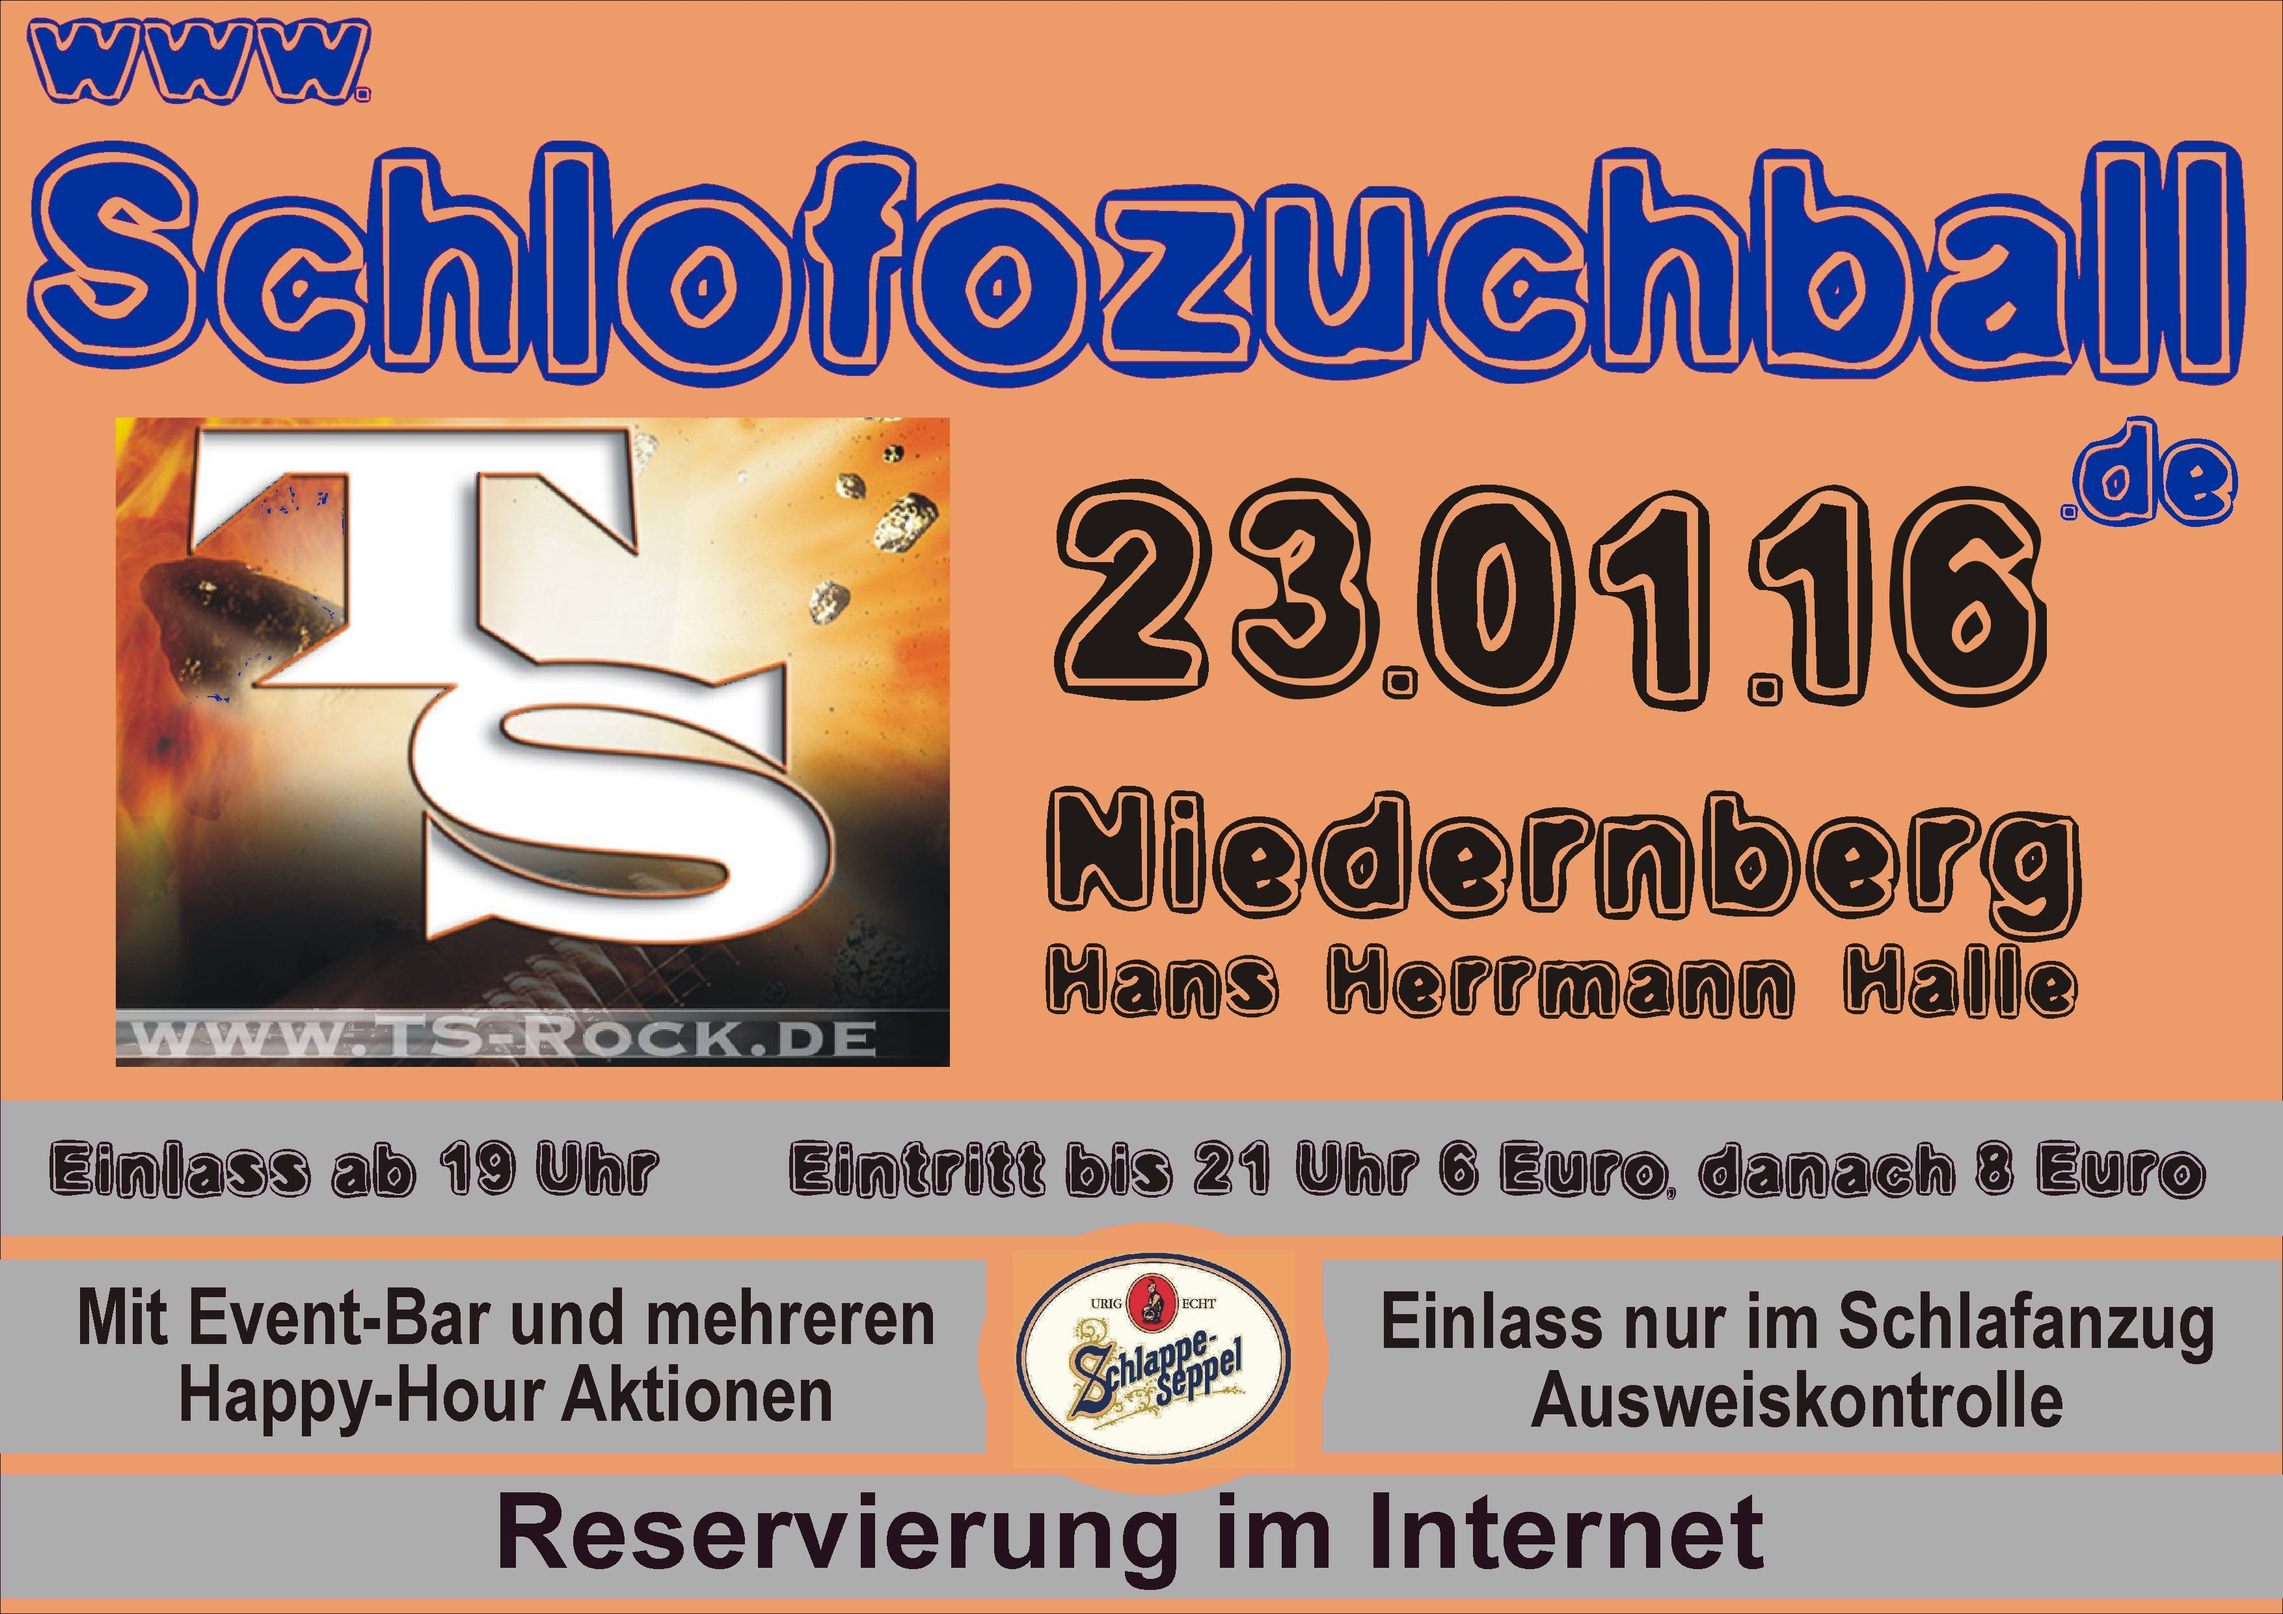
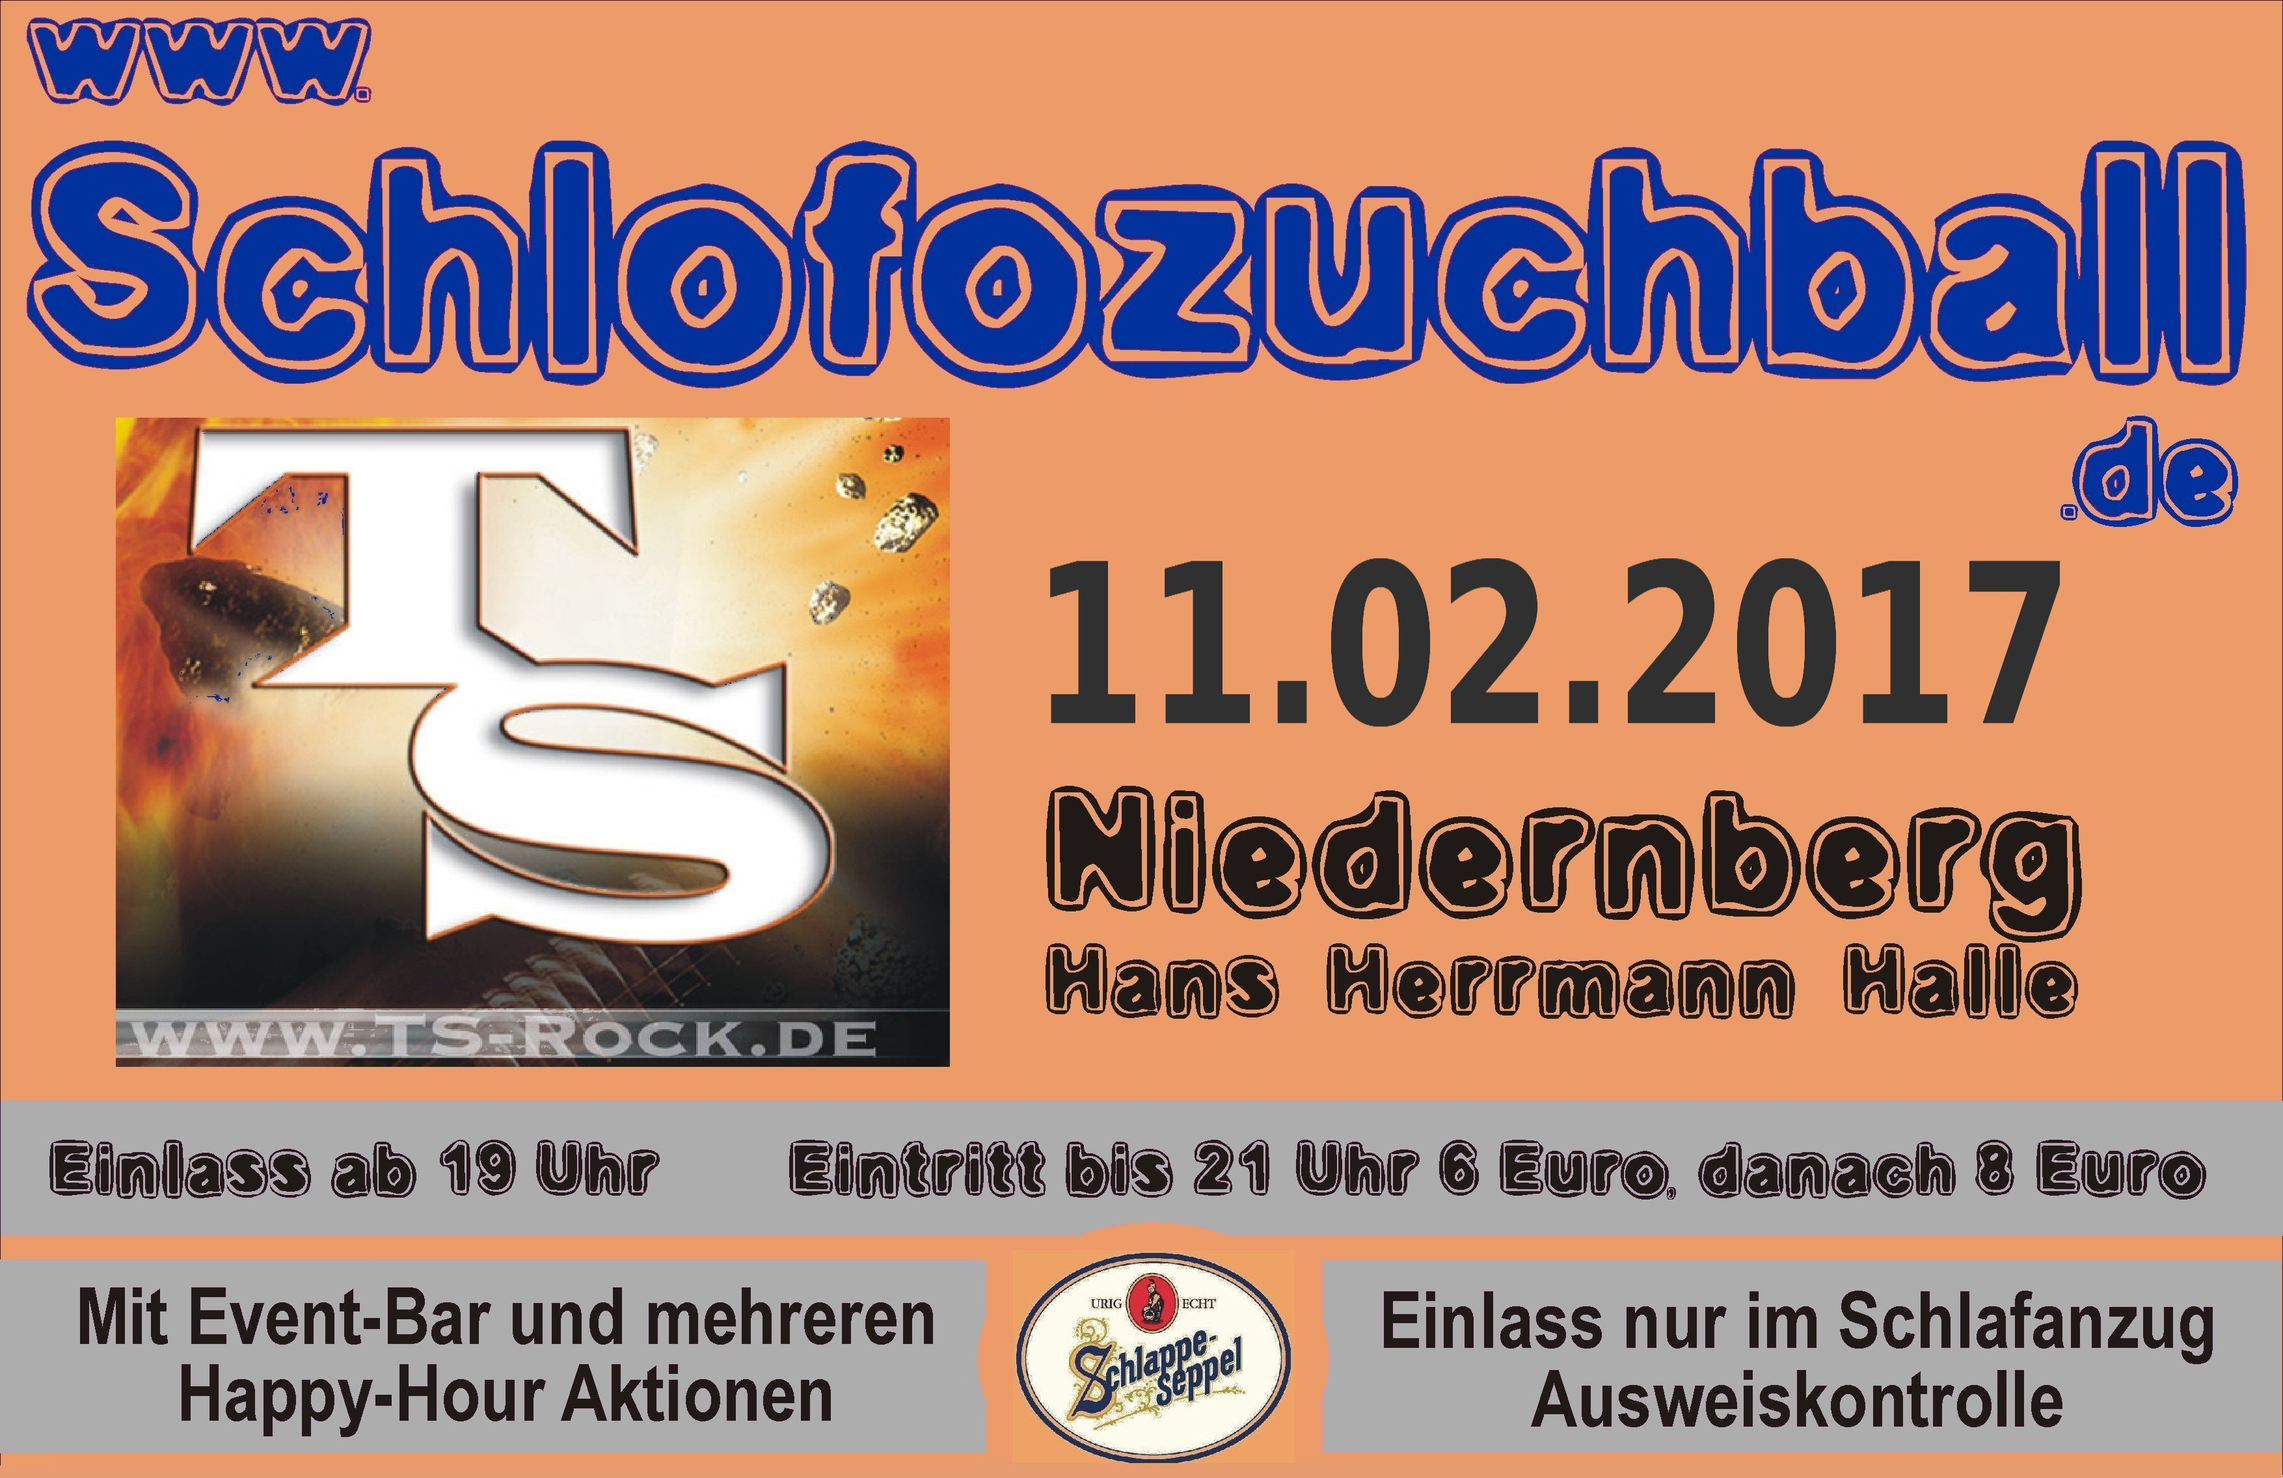
bump Schlofozuchball 2017

diff --git a/template/headerMenu.php b/template/headerMenu.php
@@ -1,54 +1,54 @@
 <!doctype html>
 <html>
 
-	<head>
-		<title>Schlofozuchball 2016</title>
-		<link rel="stylesheet" type="text/css" href="css/default.css" />
+  <head>
+    <title>Schlofozuchball 2017</title>
+    <link rel="stylesheet" type="text/css" href="css/default.css" />
 
-		<meta charset="utf-8" />
-		<meta name="content-language" content="de" />
-		<meta name="author"           content="Johannes Lauinger" />
-		<meta name="publisher"        content="Musikcorps Niedernberg" />
-		<meta name="copyright"        content="Musikcorps Niedernberg" />
-		<meta name="keywords"         content="Musikcorps Niedernberg Schlofozuchball Schlafanzug Disco Hans Herrmann Halle" />
-		<meta name="description"      content="Die offizielle Webseite zum Niedernberger Schlofozuchball mit aktuellen Informationen." />
-		<meta name="language"         content="Deutsch" />
-		<meta name="robots"           content="INDEX,FOLLOW" />
-	</head>
+    <meta charset="utf-8" />
+    <meta name="content-language" content="de" />
+    <meta name="author"           content="Johannes Lauinger" />
+    <meta name="publisher"        content="Musikcorps Niedernberg" />
+    <meta name="copyright"        content="Musikcorps Niedernberg" />
+    <meta name="keywords"         content="Musikcorps Niedernberg Schlofozuchball Schlafanzug Disco Hans Herrmann Halle" />
+    <meta name="description"      content="Die offizielle Webseite zum Niedernberger Schlofozuchball mit aktuellen Informationen." />
+    <meta name="language"         content="Deutsch" />
+    <meta name="robots"           content="INDEX,FOLLOW" />
+  </head>
 
-	<body>
+  <body>
 
-		<script type="text/javascript">
-			var gaJsHost = (("https:" == document.location.protocol) ? "https://ssl." : "http://www.");
-			document.write(unescape("%3Cscript src='" + gaJsHost + "google-analytics.com/ga.js' type='text/javascript'%3E%3C/script%3E"));
-		</script>
-		<script type="text/javascript">
-			var pageTracker = _gat._getTracker("UA-2897477-2");
-			pageTracker._initData();
-			pageTracker._trackPageview();
-		</script>
+    <script type="text/javascript">
+      var gaJsHost = (("https:" == document.location.protocol) ? "https://ssl." : "http://www.");
+      document.write(unescape("%3Cscript src='" + gaJsHost + "google-analytics.com/ga.js' type='text/javascript'%3E%3C/script%3E"));
+    </script>
+    <script type="text/javascript">
+      var pageTracker = _gat._getTracker("UA-2897477-2");
+      pageTracker._initData();
+      pageTracker._trackPageview();
+    </script>
 
-		<table cellspacing="0" id="mainLayout">
+    <table cellspacing="0" id="mainLayout">
 
-		<!-- Header -->
-			<tr><td colspan="2" id="header">
-				<a href="index.php"><img src="bilder/logo.gif" border="0" alt="Logo Schlofozuchball" /></a>
-			</td></tr>
-			<tr><td colspan="2" id="separator"></td></tr>
-		<!-- Ende Header -->
+    <!-- Header -->
+      <tr><td colspan="2" id="header">
+        <a href="index.php"><img src="bilder/logo.gif" border="0" alt="Logo Schlofozuchball" /></a>
+      </td></tr>
+      <tr><td colspan="2" id="separator"></td></tr>
+    <!-- Ende Header -->
 
-		<!-- Menü -->
-			<tr><td id="menu">
-				<b>Navigation:</b><br />
-				<table id="menu">
-					<tr><td><a href="index.php">Auf einen Blick</a></td></tr>
-					<tr><td><a href="infos.php">Infos</a></td></tr>
-					<tr><td><a href="weg.php">Wegbeschreibung</a></td></tr>
+    <!-- Menü -->
+      <tr><td id="menu">
+        <b>Navigation:</b><br />
+        <table id="menu">
+          <tr><td><a href="index.php">Auf einen Blick</a></td></tr>
+          <tr><td><a href="infos.php">Infos</a></td></tr>
+          <tr><td><a href="weg.php">Wegbeschreibung</a></td></tr>
           <tr><td><a href="werbung.php">Werbebanner</a></td></tr>
-					<tr><td><a href="fundgrube.php">Fundgrube</a></td></tr>
-					<tr><td><a href="impressum.php">Impressum</a></td></tr>
-				</table>
-			</td>
-		<!-- Ende Menü -->
+          <tr><td><a href="fundgrube.php">Fundgrube</a></td></tr>
+          <tr><td><a href="impressum.php">Impressum</a></td></tr>
+        </table>
+      </td>
+    <!-- Ende Menü -->
 
-		<td id="main">
+    <td id="main">

diff --git a/index.php b/index.php
@@ -3,9 +3,9 @@
 include "template/headerMenu.php";
 ?>
 
-<!--<img src="bilder/banner.png" width="100%" alt="Schlofozuchball 2016" /><br /><br />-->
+<!--<img src="bilder/banner.png" width="100%" alt="Schlofozuchball 2017" /><br /><br />-->
 
-<h1>Schlofozuchball 2016</h1>
+<h1>Schlofozuchball 2017</h1>
 <br />
 
 <span class="big"><b>Herzlich Willkommen</b> auf der offiziellen Webseite zum Niedernberger Schlofozuchball!</span>
@@ -33,9 +33,9 @@ Das Mindestalter ist 16 Jahre!
 </td><td class="separatorRight"></td><td>
 
 <span id="termin">
-<h2>Termin 2016</h2><br />
+<h2>Termin 2017</h2><br />
 <table border="0" cellspacing="0" cellpadding="5">
-<tr><td><b>Wann:</b></td><td>Samstag, der 23. Januar 2016, 20:00 Uhr<br /><i>(Einlass ab 19 Uhr)</i></td></tr>
+<tr><td><b>Wann:</b></td><td>Samstag, der 11. Februar 2017, 20:00 Uhr<br /><i>(Einlass ab 19 Uhr)</i></td></tr>
 <tr><td><b>Wo:</b></td><td>Hans Herrmann Halle, Niedernberg (siehe <a href="weg.php">Wegbeschreibung</a>)</td></tr>
 <tr><td><b>Einlass ab:</b></td><td>16 Jahren. Ausweiskontrolle!</td></tr>
 <tr><td><b>Motto:</b></td><td>Jeder kommt im Schlafanzug!</td></tr>
@@ -43,7 +43,7 @@ Das Mindestalter ist 16 Jahre!
 </span>
 
 <!--<span id="schlofozuchball-vorbei-hinweis">
-<span class="big"><b>Vielen Dank für einen gelungenen Schlofozuchball 2016!</b></span><br /><br />
+<span class="big"><b>Vielen Dank für einen gelungenen Schlofozuchball 2017!</b></span><br /><br />
 Wir hoffen, dass es Dir gefallen hat und dass Du nächstes jahr wieder kommst.<br /><br />
 <span class="big">Falls Du etwas verloren hast, kannst Du unsere <a href="fundgrube.php">Fundgrube</a> besuchen.</span>
 </span>-->
@@ -67,7 +67,7 @@ Bitte beachte für einen reibungslosen Abend folgende Punkte:<br />
 </td></tr></table>
 
 <h2>Du möchtest Werbung für den Schlofozuchball machen?</h2><br />
-<span class="big"><a href="werbung.php">Hier geht's zum offiziellen Werbebanner für den Schlofozuchball 2016</a></span>
+<span class="big"><a href="werbung.php">Hier geht's zum offiziellen Werbebanner für den Schlofozuchball 2017</a></span>
 
 
 <?php

diff --git a/infos.php b/infos.php
@@ -9,7 +9,7 @@ include "template/headerMenu.php";
 <!--<a href="http://www.ts-rock.de/band.html" target="blank"><img src="bilder/bannerTS.jpg" alt="TS Rock" width="100%" /></a><br />-->
 
 <h2>Die Live-Band TS Rock</h2><br />
-In diesem Jahr spielt zum dritten Mal die Live-Band <b>TS Rock</b> TS wird mit erstklassigen <b>Cover-Versionen</b> für <b>gute Laune</b> sorgen und aktuelle Titel aus <b>House</b> und <b>Rock-Klassikern</b>, aber auch <b>Party-Hits</b> und <b>deutsche Songs</b> zum Besten geben.<br />
+In diesem Jahr spielt zum vierten Mal die Live-Band <b>TS Rock</b> TS wird mit erstklassigen <b>Cover-Versionen</b> für <b>gute Laune</b> sorgen und aktuelle Titel aus <b>House</b> und <b>Rock-Klassikern</b>, aber auch <b>Party-Hits</b> und <b>deutsche Songs</b> zum Besten geben.<br />
 Mehr über TS Rock erfahrt Ihr auf der offiziellen Internet-Seite <a href="http://www.ts-rock.de/band.html" target="blank">http://www.ts-rock.de</a>.
 <br /><br />
 

diff --git a/fundgrube.php b/fundgrube.php
@@ -8,7 +8,7 @@ include "template/headerMenu.php";
 
 <h2>Was ist die Fundgrube?</h2><br />
 Beim Schlofozuchball passiert es schnell, dass Du etwas verlierst.<br />
-Damit du deine Sachen möglichst schnell wiederbekommst, bieten wir 2016 wie bisher eine Fundgrube an.<br /><br />
+Damit du deine Sachen möglichst schnell wiederbekommst, bieten wir 2017 wie bisher eine Fundgrube an.<br /><br />
 Wenn Du <b>während der Veranstaltung</b> etwas verlierst, fragst Du bitte zuerst an der <b>Garderobe</b> nach, vielleicht es jemand bereits dort abgegeben...
 <br /><br />
 

diff --git a/werbung.php b/werbung.php
@@ -2,13 +2,13 @@
         include "template/headerMenu.php";
 ?>
 
-<h2>Der offizielle Werbebanner f&uuml;r den Schlofozuchball 2016</h2>
+<h2>Der offizielle Werbebanner f&uuml;r den Schlofozuchball 2017</h2>
 <br />
 
 <a href="bilder/banner_hq.jpg" target="blank">Den Werbebanner in hoher Aufl&ouml;sung herunterladen...</a><br />
 
 <br />
-<img src="bilder/banner.jpg" alt="Werbebanner Schlofozuchball 2016" style="margin-left: 20px;" />
+<img src="bilder/banner.jpg" alt="Werbebanner Schlofozuchball 2017" style="margin-left: 20px;" />
 
 
 <?php

diff --git a/weg.php b/weg.php
@@ -7,7 +7,7 @@ include "template/headerMenu.php";
 <br />
 
 <h2>Ort</h2><br />
-<span class="big">Der Schlofozuchball findet 2016 wie jedes Jahr in der <b>Hans Herrmann Halle Niedernberg</b> statt.</span><br /><br />
+<span class="big">Der Schlofozuchball findet 2017 wie jedes Jahr in der <b>Hans Herrmann Halle Niedernberg</b> statt.</span><br /><br />
 Adresse:<br />
 <span class="big" id="adresse"><b>Leerweg<br />
 63843 Niedernberg</b></span>

diff --git a/template/footer.php b/template/footer.php
@@ -4,7 +4,7 @@
 
 		<!-- Footer -->
 			<tr><td colspan="2" id="footer">
-				&copy; Musikcorps Niedernberg 2011-2016 | <a href="impressum.php">Impressum</a>
+				&copy; Musikcorps Niedernberg 2011-2017 | <a href="impressum.php">Impressum</a>
 			</td></tr>
 		<!-- Ende Footer -->
 
